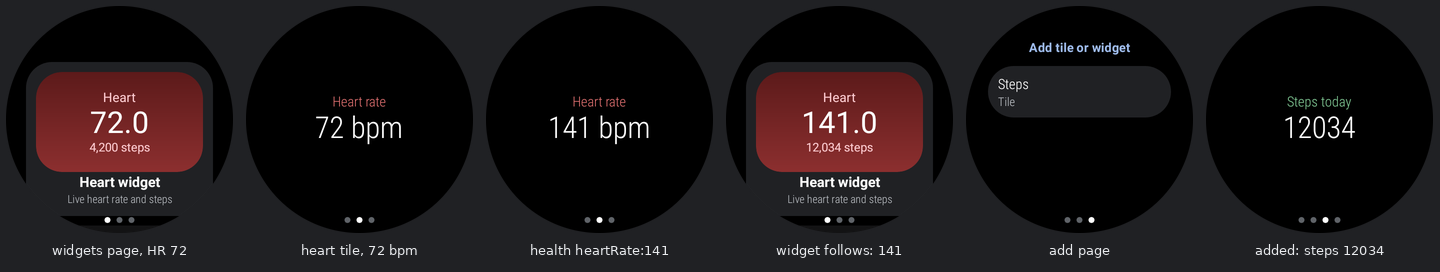
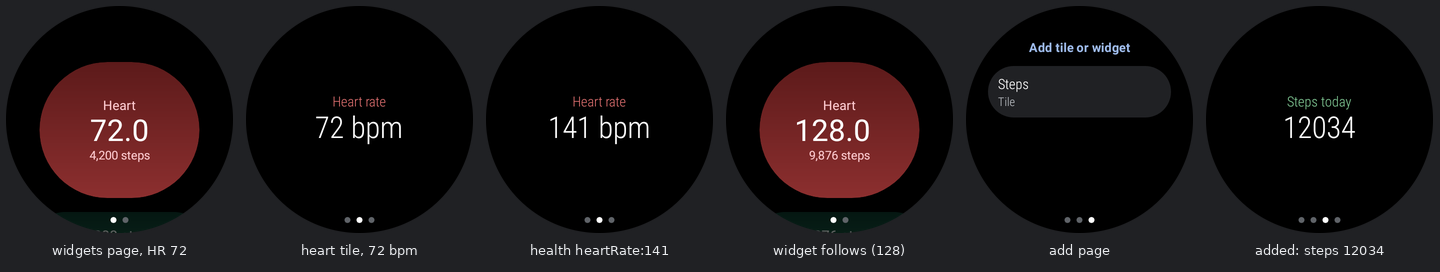
fix(cli): draw Wear Widgets as their host containers, without a card
Claude-Session: https://claude.ai/code/session_017xSuvsVjmm3E2fXDyT1aHJ

Changed region(s): [[0.5, 0.2059, 0.6562, 0.8529], [0.0, 0.2059, 0.1562, 0.8529], [0.5312, 0.8824, 0.625, 0.9412]]

diff --git a/simulator/host/src/main/java/ee/schimke/composeai/simulator/WearSystemUi.java b/simulator/host/src/main/java/ee/schimke/composeai/simulator/WearSystemUi.java
@@ -113,6 +113,8 @@ final class WearSystemUi {
   private ScrollView notifications;
   private LinearLayout notificationList;
   private FrameLayout carousel;
+  /** The carousel page's list (widgets or the add page), which the crown scrolls; else null. */
+  private ScrollView carouselScroll;
   private ScrollView quickSettings;
   private LinearLayout quickSettingsList;
   private final Set<String> expanded = new HashSet<>();
@@ -808,6 +810,7 @@ final class WearSystemUi {
   /** Shows the carousel's current page: the widgets list, one tile, or the add page. */
   private void buildCarousel() {
     for (int i = carousel.getChildCount() - 1; i >= 0; i--) carousel.removeViewAt(i);
+    carouselScroll = null;
     String page = tiles.page();
     TileHost.Item item = tiles.item(page);
     if (item != null && item.tile()) {
@@ -886,45 +889,46 @@ final class WearSystemUi {
   /**
    * The added Wear Widgets on one page, as a scrolling list in the manner of Wear Compose's {@code
    * TransformingLazyColumn}: items shrink and fade as they near the round screen's top and bottom
-   * edges. Each shows the widget's picker preview and label.
+   * edges. Each widget is its container and nothing more, as a watch shows it: the document paints
+   * its own background, the host only masks it to the container's shape and adds no card, frame or
+   * label. Small (2x1) and large (2x2) containers are centred, 8dp apart.
    */
   private View widgetsPage() {
     LinearLayout list = column(context);
-    list.setPadding(dp(20), dp(50), dp(20), dp(60));
+    list.setGravity(Gravity.CENTER_HORIZONTAL);
+    list.setPadding(0, dp(48), 0, dp(64));
     for (TileHost.Item item : tiles.widgets()) {
-      LinearLayout card = new LinearLayout(context);
-      card.setOrientation(LinearLayout.VERTICAL);
-      card.setGravity(Gravity.CENTER_HORIZONTAL);
-      card.setPadding(dp(10), dp(10), dp(10), dp(10));
-      card.setBackground(rounded(0xFF202124, 26));
-      tag(card, "widget", item.component.getClassName());
-      card.addView(
-          widgetFrame(item),
-          new LinearLayout.LayoutParams(ViewGroup.LayoutParams.MATCH_PARENT, dp(WIDGET_HEIGHT_DP)));
-      TextView label = text(item.label, 14, Color.WHITE, true);
-      label.setGravity(Gravity.CENTER);
-      card.addView(label);
-      if (item.description != null) {
-        TextView description = text(item.description, 11, 0xFFBDC1C6, false);
-        description.setGravity(Gravity.CENTER);
-        card.addView(description);
-      }
-      list.addView(card, wide());
+      WidgetClient.Container container = container(item);
+      FrameLayout frame = widgetFrame(item, container);
+      tag(frame, "widget", item.component.getClassName());
+      LinearLayout.LayoutParams params =
+          new LinearLayout.LayoutParams(dp(container.widthDp), dp(container.heightDp));
+      params.topMargin = dp(8);
+      list.addView(frame, params);
     }
     TextView add = chip("+ Add widget", v -> showAddPage());
     tag(add, "tiles_add_page", null);
-    list.addView(add, wide());
+    LinearLayout.LayoutParams addParams =
+        new LinearLayout.LayoutParams(dp(160), ViewGroup.LayoutParams.WRAP_CONTENT);
+    addParams.topMargin = dp(12);
+    list.addView(add, addParams);
     ScrollView scroll = new TransformingScrollView(context);
     scroll.setVerticalScrollBarEnabled(false);
     scroll.addView(list);
+    carouselScroll = scroll;
     return scroll;
   }
 
-  private static final int WIDGET_WIDTH_DP = 166;
-  private static final int WIDGET_HEIGHT_DP = 100;
+  /** The host slot [item] gets on this watch: its container type, on this display's shape. */
+  private WidgetClient.Container container(TileHost.Item item) {
+    return WidgetClient.Container.of(
+        item.containerType,
+        FormFactor.isRound(),
+        app.getResources().getConfiguration().screenWidthDp);
+  }
 
   /** [item]'s frame: its document once played, its preview image until then. */
-  private FrameLayout widgetFrame(TileHost.Item item) {
+  private FrameLayout widgetFrame(TileHost.Item item, WidgetClient.Container container) {
     FrameLayout frame = widgetFrames.get(item.key());
     if (frame != null) {
       if (frame.getParent() != null) ((ViewGroup) frame.getParent()).removeView(frame);
@@ -940,7 +944,7 @@ final class WearSystemUi {
       frame.addView(image, matchParent());
     }
     WidgetClient client = tiles.widgetClient(item);
-    client.attach(context, frame, WIDGET_WIDTH_DP, WIDGET_HEIGHT_DP);
+    client.attach(context, frame, container);
     client.request();
     return frame;
   }
@@ -997,6 +1001,7 @@ final class WearSystemUi {
     ScrollView scroll = new TransformingScrollView(context);
     scroll.setVerticalScrollBarEnabled(false);
     scroll.addView(list);
+    carouselScroll = scroll;
     return scroll;
   }
 
@@ -1175,6 +1180,9 @@ final class WearSystemUi {
         return notifications;
       case QUICK_SETTINGS:
         return quickSettings;
+      case TILES:
+        // The widgets page and the add page scroll; a tile page is the tile's own.
+        return carouselScroll != null && carouselScroll.isAttachedToWindow() ? carouselScroll : null;
       default:
         return null;
     }

diff --git a/simulator/host/src/main/java/ee/schimke/composeai/simulator/WidgetClient.java b/simulator/host/src/main/java/ee/schimke/composeai/simulator/WidgetClient.java
@@ -43,6 +43,58 @@ final class WidgetClient {
 
   static final int SMALL = 2;
 
+  /**
+   * The slot a watch's host gives a widget: its size, the padding it keeps inside, and the corner
+   * radius it masks the widget's background to. The document paints its own background over the
+   * whole slot (Glance Wear's container), so the host draws nothing around it. Values are Glance
+   * Wear's own preview parameters for each host shape: a round watch's stadium (corners of 999dp,
+   * clamped to a pill) and a square watch's squircle (26dp), each sized for a large screen
+   * (227dp across) or a small one.
+   */
+  static final class Container {
+    final int type;
+    final float widthDp;
+    final float heightDp;
+    final float horizontalPaddingDp;
+    final float verticalPaddingDp;
+    final float cornerRadiusDp;
+
+    Container(int type, float w, float h, float hPad, float vPad, float corner) {
+      this.type = type;
+      this.widthDp = w;
+      this.heightDp = h;
+      this.horizontalPaddingDp = hPad;
+      this.verticalPaddingDp = vPad;
+      this.cornerRadiusDp = corner;
+    }
+
+    static Container of(int type, boolean round, int screenWidthDp) {
+      boolean large = screenWidthDp >= 210;
+      if (round) {
+        if (type == SMALL) {
+          return large
+              ? new Container(SMALL, 200, 60, 15, 8, 999)
+              : new Container(SMALL, 182, 54, 13, 8, 999);
+        }
+        return large
+            ? new Container(LARGE, 160, 136, 35, 16, 999)
+            : new Container(LARGE, 150, 120, 29, 16, 999);
+      }
+      if (type == SMALL) {
+        return large
+            ? new Container(SMALL, 200, 60, 8, 8, 26)
+            : new Container(SMALL, 166, 60, 8, 8, 26);
+      }
+      return large
+          ? new Container(LARGE, 200, 108, 8, 8, 26)
+          : new Container(LARGE, 166, 96, 8, 8, 26);
+    }
+
+    String name() {
+      return type == SMALL ? "small" : "large";
+    }
+  }
+
   final ComponentName component;
   final int instanceId;
   private final Application app;
@@ -55,8 +107,7 @@ final class WidgetClient {
   private String error;
   private Context context;
   private ViewGroup parent;
-  private int widthDp = 186;
-  private int heightDp = 110;
+  private Container container = Container.of(LARGE, true, 227);
 
   WidgetClient(
       Application app,
@@ -82,12 +133,15 @@ final class WidgetClient {
     return error;
   }
 
-  /** Where the document plays, at [widthDp] x [heightDp]. */
-  void attach(Context context, ViewGroup parent, int widthDp, int heightDp) {
+  /** Where the document plays: [parent], sized to [container]. */
+  void attach(Context context, ViewGroup parent, Container container) {
     this.context = context;
     this.parent = parent;
-    this.widthDp = widthDp;
-    this.heightDp = heightDp;
+    this.container = container;
+  }
+
+  Container container() {
+    return container;
   }
 
   private Object provider() throws ReflectiveOperationException {
@@ -145,7 +199,14 @@ final class WidgetClient {
                   float.class, float.class, int.class, int.class, int.class, List.class,
                   byteString)
               .newInstance(
-                  instanceId, "simulator", (float) widthDp, (float) heightDp, LARGE, 8f, 8f, 26f,
+                  instanceId,
+                  "simulator",
+                  container.widthDp,
+                  container.heightDp,
+                  container.type,
+                  container.horizontalPaddingDp,
+                  container.verticalPaddingDp,
+                  container.cornerRadiusDp,
                   version[0],
                   version[1],
                   version[2],
@@ -216,12 +277,14 @@ final class WidgetClient {
                 view.post(WidgetClient.this::applySystemData);
               }
             });
-    float radius = 26 * app.getResources().getDisplayMetrics().density;
+    // The host masks the widget to its container's shape; 999dp corners clamp to a pill.
+    float radius = container.cornerRadiusDp * app.getResources().getDisplayMetrics().density;
     view.setOutlineProvider(
         new ViewOutlineProvider() {
           @Override
           public void getOutline(View v, Outline outline) {
-            outline.setRoundRect(0, 0, v.getWidth(), v.getHeight(), radius);
+            outline.setRoundRect(
+                0, 0, v.getWidth(), v.getHeight(), Math.min(radius, v.getHeight() / 2f));
           }
         });
     view.setClipToOutline(true);

diff --git a/simulator/host/src/main/java/ee/schimke/composeai/simulator/TileHost.java b/simulator/host/src/main/java/ee/schimke/composeai/simulator/TileHost.java
@@ -58,6 +58,9 @@ final class TileHost {
     /** The preview drawable's resource id, or 0. */
     final int preview;
 
+    /** A widget's container ({@code preferredType}, else its only {@code <container>}). */
+    int containerType = WidgetClient.LARGE;
+
     Item(ComponentName component, String kind, String label, String description, int preview) {
       this.component = component;
       this.kind = kind;
@@ -191,30 +194,46 @@ final class TileHost {
     String label = null;
     String description = null;
     int preview = 0;
+    String preferred = null;
+    List<String> containers = new ArrayList<>();
     int xml = widgetXml(service);
     if (xml != 0) {
       try (XmlResourceParser parser = app.getResources().getXml(xml)) {
         int event;
         while ((event = parser.next()) != XmlPullParser.END_DOCUMENT) {
           if (event != XmlPullParser.START_TAG) continue;
+          if (parser.getName().equals("container")) {
+            String type = parser.getAttributeValue(null, "type");
+            if (type != null) containers.add(type);
+            for (int i = 0; i < parser.getAttributeCount(); i++) {
+              if (preview == 0 && parser.getAttributeName(i).equals("previewImage")) {
+                preview = parser.getAttributeResourceValue(i, 0);
+              }
+            }
+            continue;
+          }
           for (int i = 0; i < parser.getAttributeCount(); i++) {
             String name = parser.getAttributeName(i);
             if (name.equals("label")) label = attribute(parser, i);
             else if (name.equals("description")) description = attribute(parser, i);
             else if (name.equals("previewImage")) preview = parser.getAttributeResourceValue(i, 0);
+            else if (name.equals("preferredType")) preferred = parser.getAttributeValue(i);
           }
-          break;
         }
       } catch (Exception e) {
         // An unreadable provider XML: the service's own label.
       }
     }
-    return new Item(
-        new ComponentName(service.packageName, service.name),
-        "widget",
-        label != null ? label : label(service),
-        description,
-        preview);
+    Item item =
+        new Item(
+            new ComponentName(service.packageName, service.name),
+            "widget",
+            label != null ? label : label(service),
+            description,
+            preview);
+    String type = preferred != null ? preferred : containers.size() == 1 ? containers.get(0) : null;
+    if ("SMALL".equalsIgnoreCase(type)) item.containerType = WidgetClient.SMALL;
+    return item;
   }
 
   private String attribute(XmlResourceParser parser, int i) {
@@ -388,6 +407,7 @@ final class TileHost {
             .put("label", item.label)
             .put("description", item.description)
             .put("preview", item.preview != 0)
+            .put("container", item.tile() ? null : item.containerType == WidgetClient.SMALL ? "small" : "large")
             .put("added", added.containsKey(item.key()));
     TileClient client = clients.get(item.key());
     if (client != null) {

diff --git a/docs/SIMULATOR.md b/docs/SIMULATOR.md
@@ -506,13 +506,18 @@ leave / remove), and drawn by the protolayout tile renderer the CLI stages in `l
 (apps do not ship it); a `LoadAction` requests the tile again with the clicked state and a
 `LaunchAction` starts its activity. Widgets are bound by Glance Wear's `BIND_WIDGET_PROVIDER`,
 asked for a document of their container's size and played with the View-based Remote Compose
-player. Both get the watch's system data: `health` sets the Wear Health Services values tiles read
+player. A widget is shown as a watch shows it: just its container, the provider's
+`preferredType` (small, 2x1, or large, 2x2), with no card or label around it. The document
+paints its own background and the host only masks it to the container's shape: on a round
+watch a stadium (large 160x136dp, small 200x60dp), on a square one a 26dp-cornered squircle
+(200x108dp, 200x60dp), the sizes Glance Wear's own previews use. Both get the watch's system data: `health` sets the Wear Health Services values tiles read
 through `PlatformHealthSources` and widgets through Glance Wear's `HealthData`.
 
 ![Navigation: app, watch face, launcher, quick settings](design/evidence/simulator-launch/wear-navigation.png)
 ![Notifications: stream, expanded card, reply choices, reply delivered, heads-up](design/evidence/simulator-launch/wear-notifications.png)
 ![Ongoing activity: chip on the face and row in the launcher](design/evidence/simulator-launch/wear-ongoing.png)
 ![Tiles and widgets following the simulated heart rate and steps](design/evidence/simulator-launch/wear-tiles-widgets.png)
+![Widgets as their host containers: large stadium and small pill, no card](design/evidence/simulator-launch/wear-widget-containers.png)
 
 | Command | Arguments | Does |
 | --- | --- | --- |
@@ -521,7 +526,7 @@ through `PlatformHealthSources` and widgets through Glance Wear's `HealthData`.
 | `notifications` | `op`? (`open` / `close` / `clear`) | without `op`, every active notification with its key, channel, category, extras, actions, `ongoingActivity`, and `shown: false` plus `hiddenBecause` for one a watch would drop (blocked channel, `POST_NOTIFICATIONS` denied) |
 | `notification` | `key`, `op` (`tap` / `action` / `reply` / `dismiss` / `snooze`), `index`?, `text`?, `ms`? | sends its content intent (auto-cancel honored), presses action `index`, fills the action's `RemoteInput` with `text` (the first reply action without `index`), sends the delete intent and cancels (not when ongoing), or snoozes for `ms`. Activities land on the back stack, broadcasts reach manifest receivers, services start; an immutable `PendingIntent` drops a reply as on a device (`fillInDropped`) |
 | `ongoing` | `op`? (`list` / `tap`), `index`? | the ongoing activities, or sends one's touch intent |
-| `tiles` | `op` (`list` / `add` / `remove` / `show` / `next` / `prev` / `refresh`), `component`?, `index`? | the carousel: its pages, what the app offers, each tile's render state; `show` takes a page index or a component |
+| `tiles` | `op` (`list` / `add` / `remove` / `show` / `next` / `prev` / `refresh`), `component`?, `index`? | the carousel: its pages, what the app offers (a widget with its `container`), each tile's and widget's render state; `show` takes a page index or a component |
 | `health` | `heartRate`?, `heartRateAccuracy`? (`unknown` … `high`), `steps`?, `distanceMeters`?, `calories`?, `floors`? | sets the simulated health data, which tiles and widgets on screen redraw with |
 | `quickSettings` | `airplane`?, `wifi`? | opens quick settings (battery, airplane mode, Wi-Fi), switching either first |
 | `ambient` | `value`? | dims the watch face to its ambient outline (toggles without `value`); the app gets no ambient callbacks |
